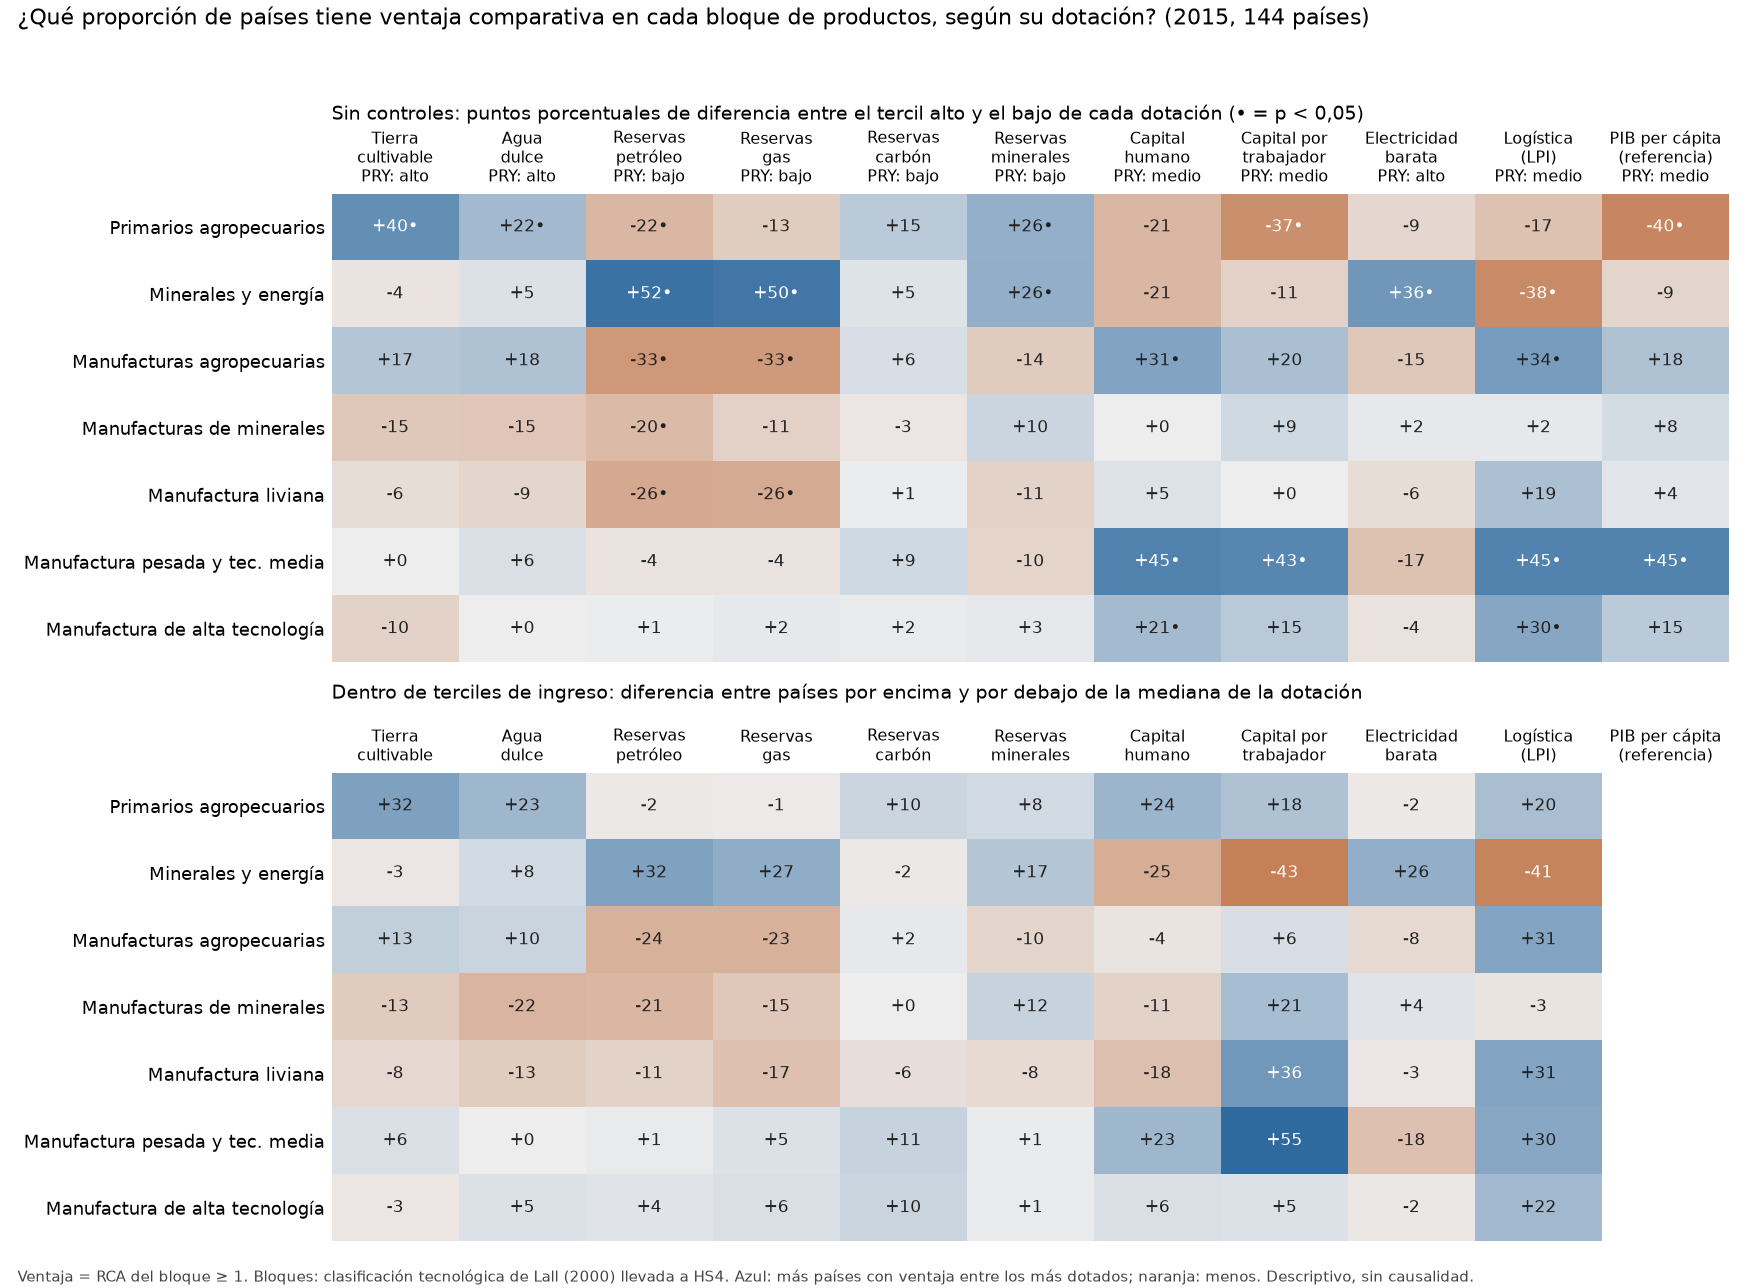
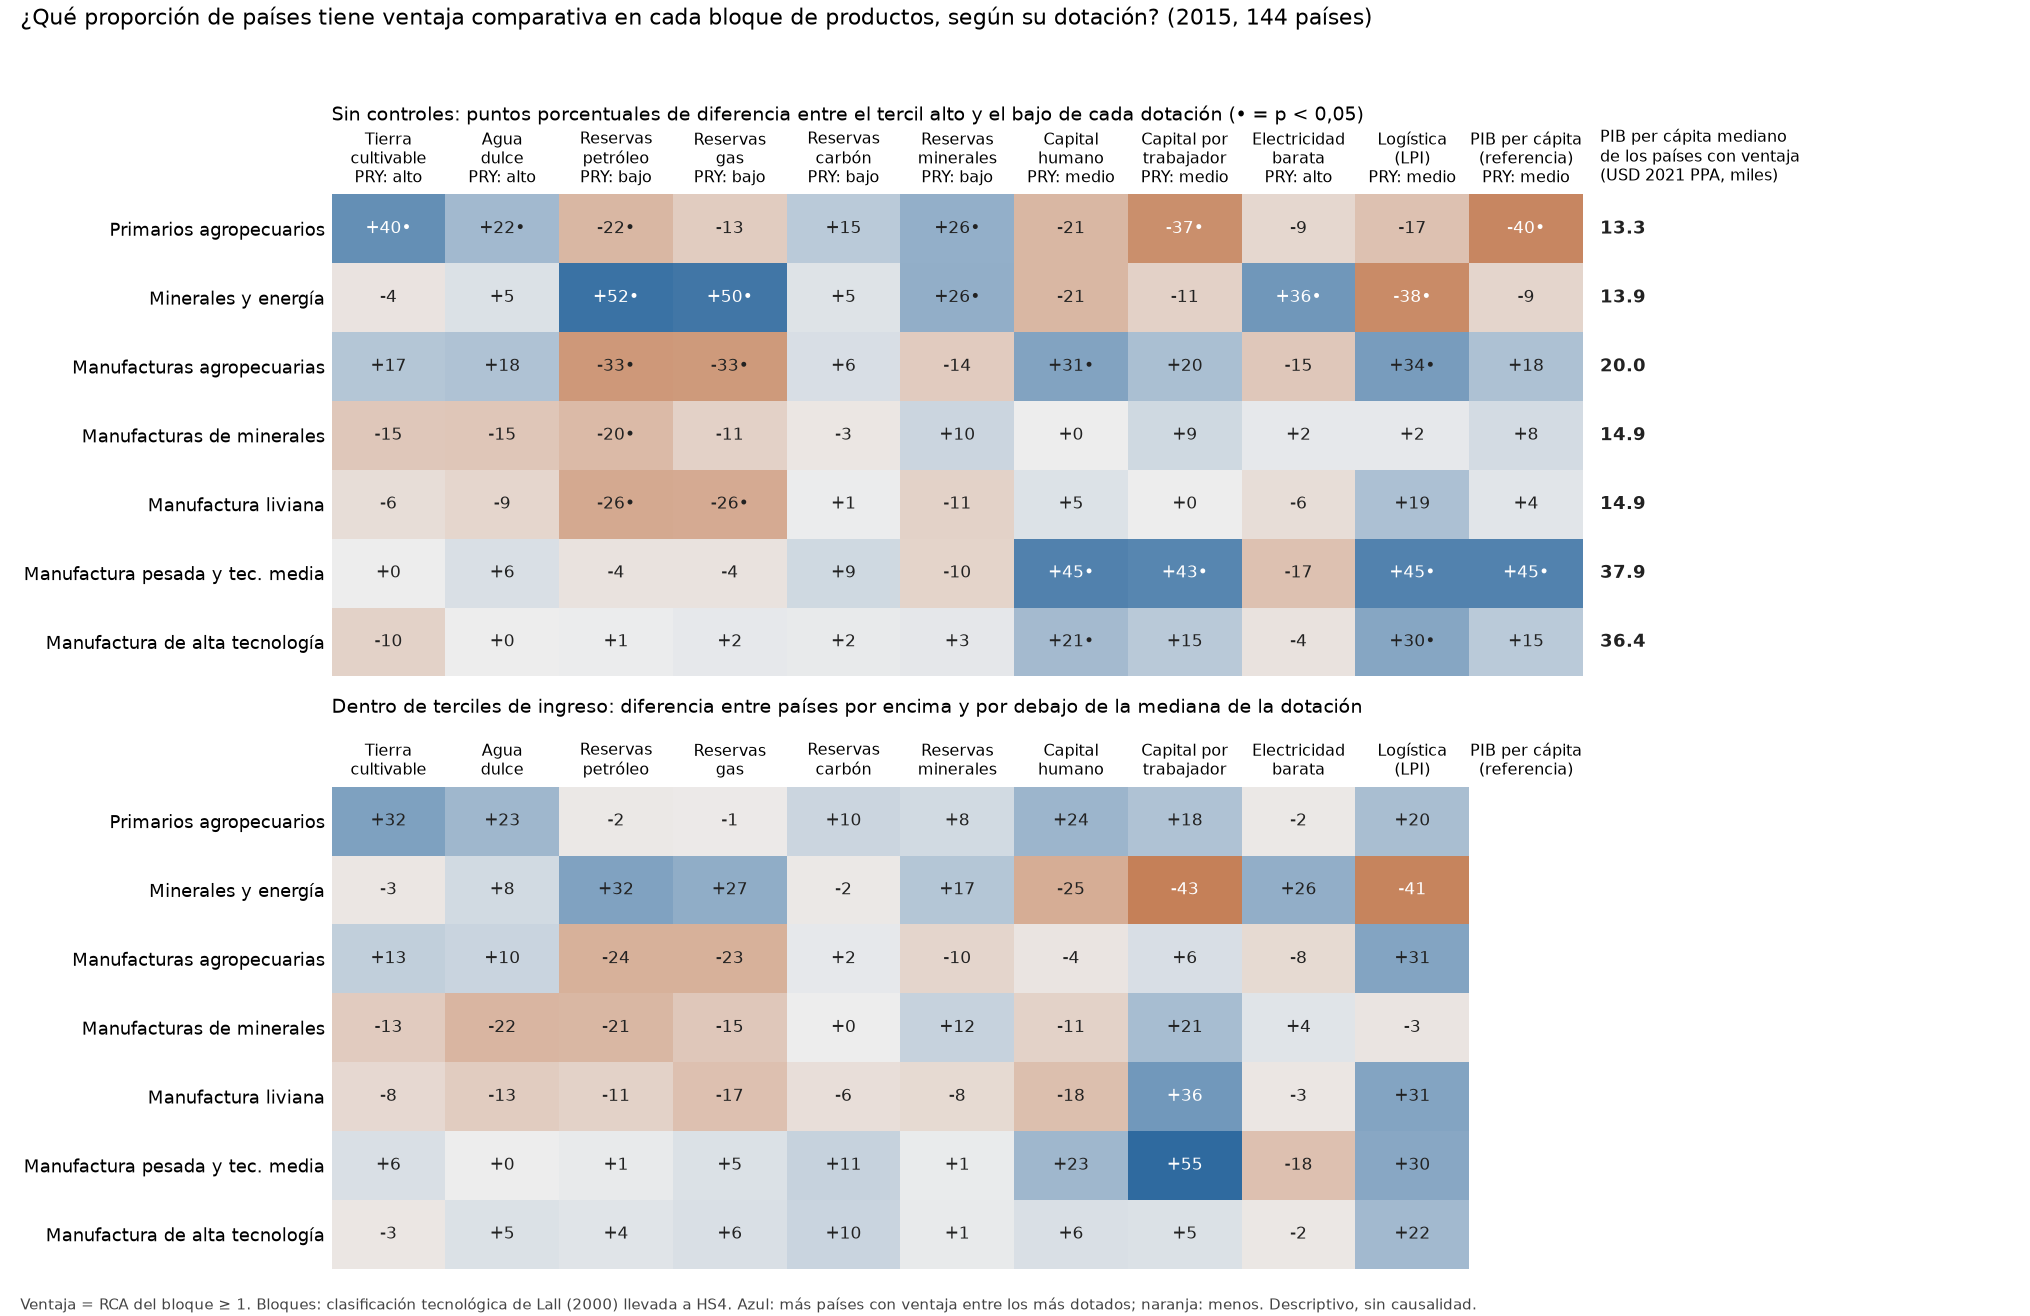
Cuadro de bloques: referencia de PIB per capita de los paises con ventaja en cada bloque

diff --git a/src/figuras/bloques_dotaciones.py b/src/figuras/bloques_dotaciones.py
@@ -31,7 +31,7 @@ ETIQUETAS_DOT = {
 COLOR_POS, COLOR_NEG, NEUTRO = "#1f5f99", "#b5541c", "#eeeeee"
 
 
-def dibujar(ax, tabla: pd.DataFrame, valor: str, titulo: str, marcar: bool, paraguay: pd.Series | None) -> None:
+def dibujar(ax, tabla: pd.DataFrame, valor: str, titulo: str, marcar: bool, paraguay: pd.Series | None, pib: pd.Series | None = None) -> None:
     m = tabla.pivot(index="bloque", columns="dotacion", values=valor).reindex(index=BLOQUES, columns=list(DOTACIONES))
     p = tabla.pivot(index="bloque", columns="dotacion", values="p_fisher").reindex(index=BLOQUES, columns=list(DOTACIONES))
     cmap = LinearSegmentedColormap.from_list("div", [COLOR_NEG, NEUTRO, COLOR_POS])
@@ -45,6 +45,11 @@ def dibujar(ax, tabla: pd.DataFrame, valor: str, titulo: str, marcar: bool, para
             ax.text(j, i, f"{v:+.0f}" + ("•" if marcar and p.iat[i, j] < 0.05 else ""), ha="center", va="center", fontsize=8.5,
                     color="white" if abs(v) > 35 else "#222222")
     ax.set_yticks(range(len(BLOQUES)), [ETIQUETAS_BLOQUES[b] for b in BLOQUES], fontsize=9)
+    if pib is not None:  # referencia de ingreso: PIB per cápita mediano de los países con ventaja en el bloque
+        x = len(DOTACIONES) - 0.35
+        ax.text(x, -1.05, "PIB per cápita mediano\nde los países con ventaja\n(USD 2021 PPA, miles)", fontsize=8, ha="left", va="center", clip_on=False)
+        for i, b in enumerate(BLOQUES):
+            ax.text(x, i, f"{pib[b] / 1000:.1f}", fontsize=9.5, fontweight="bold", ha="left", va="center", clip_on=False, color="#222222")
     etiquetas = [ETIQUETAS_DOT[c] + (f"\nPRY: {paraguay[f'tercil_{c}']}" if paraguay is not None else "") for c in DOTACIONES]
     ax.set_xticks(range(len(DOTACIONES)), etiquetas, fontsize=8)
     ax.xaxis.tick_top()
@@ -57,13 +62,14 @@ def dibujar(ax, tabla: pd.DataFrame, valor: str, titulo: str, marcar: bool, para
 def main() -> None:
     tabla = pd.read_csv(MODELO / "bloques_dotaciones_2015.csv")
     pry = pd.read_csv(MODELO / "bloques_paises_2015.csv", index_col=0).loc["PRY"]
-    fig, axes = plt.subplots(2, 1, figsize=(12.5, 9.2))
-    dibujar(axes[0], tabla, "dif_alto_bajo", "Sin controles: puntos porcentuales de diferencia entre el tercil alto y el bajo de cada dotación (• = p < 0,05)", True, pry)
+    pib = pd.read_csv(MODELO / "bloques_pib_2015.csv").set_index("bloque").pib_mediano_con
+    fig, axes = plt.subplots(2, 1, figsize=(14.5, 9.4))
+    dibujar(axes[0], tabla, "dif_alto_bajo", "Sin controles: puntos porcentuales de diferencia entre el tercil alto y el bajo de cada dotación (• = p < 0,05)", True, pry, pib)
     dibujar(axes[1], tabla, "dif_dentro_de_ingreso", "Dentro de terciles de ingreso: diferencia entre países por encima y por debajo de la mediana de la dotación", False, None)
     fig.suptitle("¿Qué proporción de países tiene ventaja comparativa en cada bloque de productos, según su dotación? (2015, 144 países)", fontsize=11.5, x=0.01, ha="left", y=0.995)
     fig.text(0.01, 0.005, "Ventaja = RCA del bloque ≥ 1. Bloques: clasificación tecnológica de Lall (2000) llevada a HS4. Azul: más países con ventaja entre los más dotados; naranja: menos. "
              "Descriptivo, sin causalidad.", fontsize=7.8, color="#444444")
-    fig.tight_layout(rect=(0, 0.02, 1, 0.97))
+    fig.tight_layout(rect=(0, 0.02, 0.9, 0.97))
     destino = RAIZ / "docs" / "figuras" / "bloques_dotaciones_2015.png"
     destino.parent.mkdir(parents=True, exist_ok=True)
     fig.savefig(destino, dpi=140)

diff --git a/src/modelos/bloques_dotaciones.py b/src/modelos/bloques_dotaciones.py
@@ -90,6 +90,20 @@ def dif_dentro_de_ingreso(ventaja: pd.DataFrame, dot: pd.DataFrame, col: str) ->
     return pd.DataFrame(filas)
 
 
+def pib_por_bloque(ventaja: pd.DataFrame, dot: pd.DataFrame) -> pd.DataFrame:
+    """Referencia de ingreso: PIB per cápita (PPA) mediano y medio de los países con ventaja en cada bloque, y mediano de los que no la tienen."""
+    g = ventaja.merge(dot[["iso3", "pib_pc_ppa"]], on="iso3").dropna(subset=["pib_pc_ppa"])
+    filas = []
+    for b in BLOQUES:
+        x = g[g.bloque == b]
+        if x.empty:
+            continue
+        con, sin = x[x.ventaja].pib_pc_ppa, x[~x.ventaja].pib_pc_ppa
+        filas.append({"bloque": b, "paises_con_ventaja": len(con), "pib_mediano_con": con.median(), "pib_medio_con": con.mean(),
+                      "pib_mediano_sin": sin.median() if len(sin) else np.nan})
+    return pd.DataFrame(filas)
+
+
 def dotaciones_del_anio(dot: pd.DataFrame, pob: pd.DataFrame, puente: pd.DataFrame, anio: int) -> pd.DataFrame:
     """Una fila por país con todas las dotaciones del año; la riqueza mineral es la suma de las participaciones en las reservas mundiales de los 18 minerales (ausente = 0)."""
     d = dot[dot.anio == anio].merge(reservas_energia(pob).query("anio == @anio"), on=["iso3", "anio"], how="left")
@@ -127,6 +141,10 @@ def main(argv: list[str] | None = None) -> None:
     control = pd.concat([dif_dentro_de_ingreso(ventaja, d, c) for c in DOTACIONES if c != "pib_pc_ppa"])
     tabla = tabla.merge(control, on=["dotacion", "bloque"], how="left")
     tabla.to_csv(MODELO / f"bloques_dotaciones_{args.anio}.csv", index=False)
+    pib = pib_por_bloque(ventaja, d)
+    pib.to_csv(MODELO / f"bloques_pib_{args.anio}.csv", index=False)
+    print(pib.round(0).to_string(index=False))
+    print("PIB per cápita de Paraguay:", round(float(d[d.iso3 == "PRY"].pib_pc_ppa.iloc[0])))
     paises = ventaja.pivot(index="iso3", columns="bloque", values="rca").round(2)
     for c in DOTACIONES:
         paises[f"tercil_{c}"] = terciles(d.set_index("iso3")[c])

diff --git a/tests/test_bloques_dotaciones.py b/tests/test_bloques_dotaciones.py
@@ -36,3 +36,10 @@ def test_diferencia_dentro_de_ingreso_desaparece_cuando_el_ingreso_lo_explica_to
     r = bd.dif_dentro_de_ingreso(ventaja, d, "x").set_index("bloque").loc["manufactura_alta_tec"]
     assert r.dif_sin_control == pytest.approx(100 * 4 / 6)  # sin control: 4 de 6 países por encima de la mediana frente a 0 de 6 por debajo
     assert abs(r.dif_dentro_de_ingreso) < 1e-9  # dentro de cada tercil de ingreso ya no hay diferencia
+
+
+def test_pib_de_los_paises_con_ventaja_en_cada_bloque():
+    ventaja = pd.DataFrame({"iso3": list("abcd"), "bloque": "manufactura_alta_tec", "ventaja": [True, True, False, False]})
+    dot = pd.DataFrame({"iso3": list("abcd"), "pib_pc_ppa": [40.0, 60.0, 10.0, 20.0]})
+    r = bd.pib_por_bloque(ventaja, dot).set_index("bloque").loc["manufactura_alta_tec"]
+    assert r.paises_con_ventaja == 2 and r.pib_mediano_con == 50 and r.pib_medio_con == 50 and r.pib_mediano_sin == 15

diff --git a/docs/resultado_bloques.md b/docs/resultado_bloques.md
@@ -29,6 +29,25 @@ países y terciles: `data/model/bloques_paises_2015.csv`. Pedido de Joaquín: re
 - **Electricidad barata:** se asocia con minerales y energía (+36), y **negativamente** con la manufactura pesada (−17): los países con electricidad barata (hidro, petróleo) son los de recursos, no los de manufactura.
 - **Segundo panel, con cuidado:** algunos signos cambian respecto del primero (capital humano y primarios agropecuarios pasa de −21 a +24; capital por trabajador con manufactura liviana de 0 a +36). Con unos 14 países por celda, esas diferencias no deben leerse como resultados.
 
+## Referencia de ingreso: qué países tienen ventaja en cada bloque
+PIB per cápita (USD de 2021, PPA) de los países de la muestra con dato de ingreso, según tengan o no ventaja (RCA ≥ 1) en el bloque. Es la última columna de la figura. Hay un poco menos de países que en el cuadro (los que no tienen dato de PIB quedan fuera).
+
+| Bloque | Países con ventaja | PIB per cápita mediano **con** ventaja | PIB per cápita mediano **sin** ventaja |
+|---|---|---|---|
+| Primarios agropecuarios | 85 | **13.330** | 32.497 |
+| Minerales y energía | 64 | 13.928 | 18.248 |
+| Manufacturas agropecuarias | 70 | 20.040 | 13.516 |
+| Manufacturas de minerales | 38 | 14.911 | 14.937 |
+| Manufactura liviana | 48 | 14.919 | 14.937 |
+| Manufactura pesada y tecnología media | 34 | **37.897** | 13.113 |
+| Manufactura de alta tecnología | 17 | **36.353** | 14.323 |
+
+- **Referencia:** Paraguay tiene 14.426; la mediana de toda la muestra es 14.937.
+- **Los primarios agropecuarios son de países de ingreso medio-bajo** (mediana 13.330, contra 32.497 de los que no tienen ventaja): los países ricos casi no los tienen como ventaja.
+- **La manufactura pesada y de tecnología alta es de países ricos** (36.000 a 38.000, casi tres veces la mediana de los que no tienen ventaja).
+- **La manufactura liviana y las manufacturas de minerales tienen el mismo ingreso mediano con y sin ventaja** (14.900 en ambos): no se asocian con un nivel de ingreso, lo que concuerda con que no tengan un patrón claro de dotaciones.
+- **Paraguay** está en el ingreso típico de los países con ventaja en primarios y en manufacturas livianas.
+
 ## Paraguay (2015)
 - **RCA por bloque:** primarios agropecuarios **13,0** (tercero del mundo), manufacturas agropecuarias 1,65 (con ventaja); liviana 0,47; pesada y tec. media 0,15; manufacturas de minerales 0,20; minerales y energía 0,11; alta tecnología 0,02.
 - **Terciles:** **alto** en tierra cultivable, agua dulce y electricidad barata; **bajo** en reservas de petróleo, gas, carbón y minerales; **medio** en capital humano, capital por trabajador, logística y PIB per cápita.
